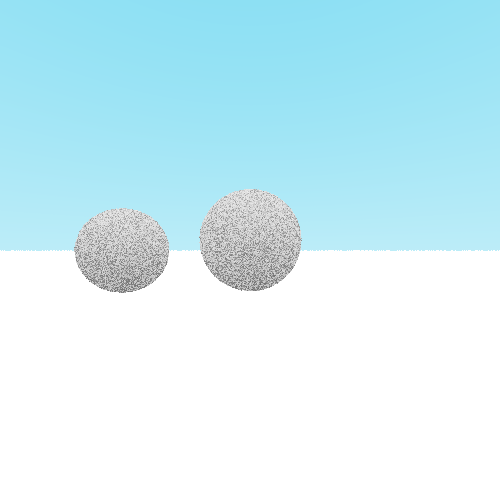
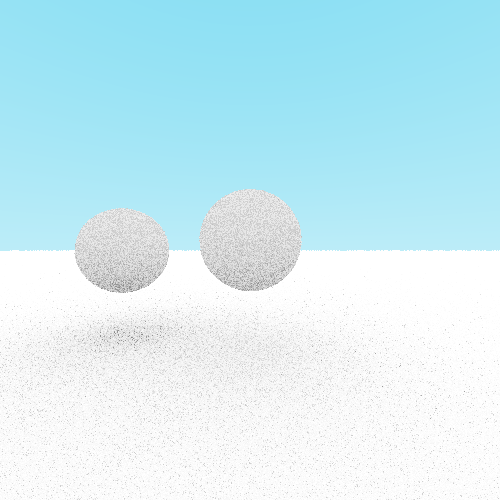
stack

diff --git a/src/geometry.rs b/src/geometry.rs
@@ -13,22 +13,22 @@ pub enum Object {
 
 impl Object {
     fn intersect(&self, ray: &Ray) -> Option<HitInfo>{
-        assert!(ray.dir.length() > 0.99 && ray.dir.length() < 1.01);
+        assert!(ray.dir.length() > 0.999 && ray.dir.length() < 1.001);
         match self {
             //https://kylehalladay.com/blog/tutorial/math/2013/12/24/Ray-Sphere-Intersection.html
             Self::Sphere {pos, col, rad} => {
                 let camera_self = pos - &ray.start;
-                let project = camera_self.dot(&ray.dir);
-                if project < 0.0{
+                let project_len = camera_self.dot(&ray.dir);
+                if project_len < 0.0{
                     None
                 } else {
-                    let closest = camera_self.length_squared()-project*project;
+                    let closest = camera_self.length_squared()-project_len*project_len;
                     let rad2 = rad * rad;
                     if closest > rad2{
                         None
                     } else {
                         let thc = (rad2 - closest).sqrt();
-                        let inters = project - thc;
+                        let inters = project_len - thc;
                         let normal = (&ray.dir * inters - pos).normalize();
                         Some(HitInfo{p: &ray.dir * inters, normal, color: col.clone()})
                     }
@@ -37,11 +37,14 @@ impl Object {
             Self::Plane {pos, normal, col} => {
                 //https://www.cs.princeton.edu/courses/archive/fall00/cs426/lectures/raycast/sld017.htm
                 //pos-vec dot normal = 0
-                let mut t = pos.dot(&normal) - &ray.start.dot(&normal);
-                t /= ray.dir.dot(&normal);
+                let mut n = normal.clone();
+                if normal.dot(&ray.dir) > 0. {
+                    n = normal * -1.;
+                }
+                let t = (pos.dot(&n) - &ray.start.dot(&n)) / ray.dir.dot(&n);
                 if t > 0. {
                     let p = &ray.start + &ray.dir * t;
-                    return Some(HitInfo{p, normal: normal.clone(), color: col.clone(), });
+                    return Some(HitInfo{p, normal: n.clone(), color: col.clone(), });
                 }
                 None
             }
@@ -58,7 +61,7 @@ impl Object {
                         break;
                     }
                     if i != 0 {
-                        color = &color * &(&hit.color * (len/10.).max(0.3).min(0.8));
+                        color = &color * &(&hit.color * (len/4.).max(0.3).min(0.8));
                     } else {
                         color = hit.color;
                     }

diff --git a/src/main.rs b/src/main.rs
@@ -20,7 +20,7 @@ fn frag(x: usize, y: usize) -> Pixel{
     let camera: Point = Vec3::new(0., -5., 0.);
     let objects: Vec<Object> = vec![
         Object::Sphere {pos: Vec3::new(-3., 1., 0.), col: Vec3::new(1., 1., 1.), rad: 1.},
-        Object::Plane {pos: Vec3::new(0., 0., -2.), normal: Vec3::new(0., 0., -1.), col: Vec3::new(1., 1., 1.)},
+        Object::Plane {pos: Vec3::new(0., 0., -2.), normal: Vec3::new(0., 0., 1.), col: Vec3::new(1., 1., 1.)},
         //Object::Sphere {pos: Vec3::new(0., 0., -40.), col: Vec3::new(1., 1., 1.), rad: 39.},
         Object::Sphere {pos: Vec3::new(0., 0., 0.2), col: Vec3::new(1., 1., 1.), rad: 1.}
     ];
